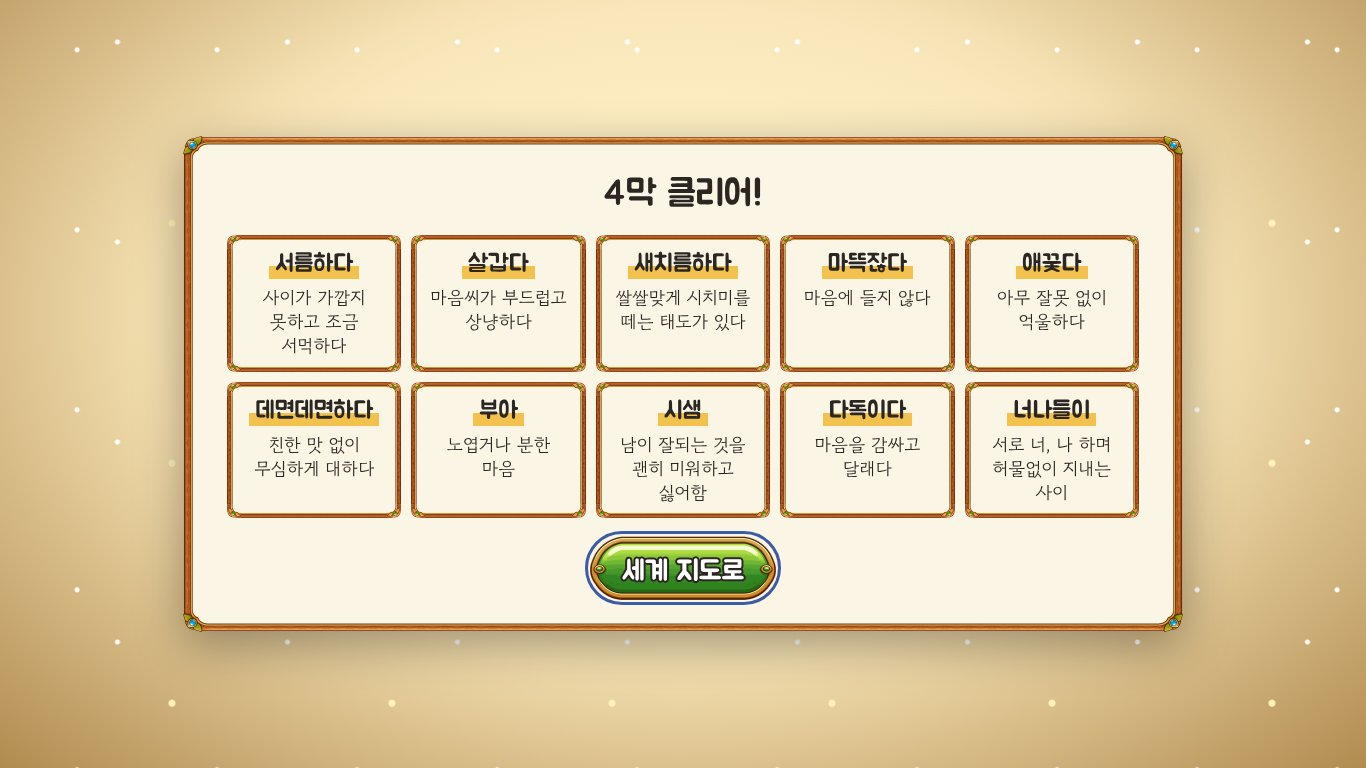
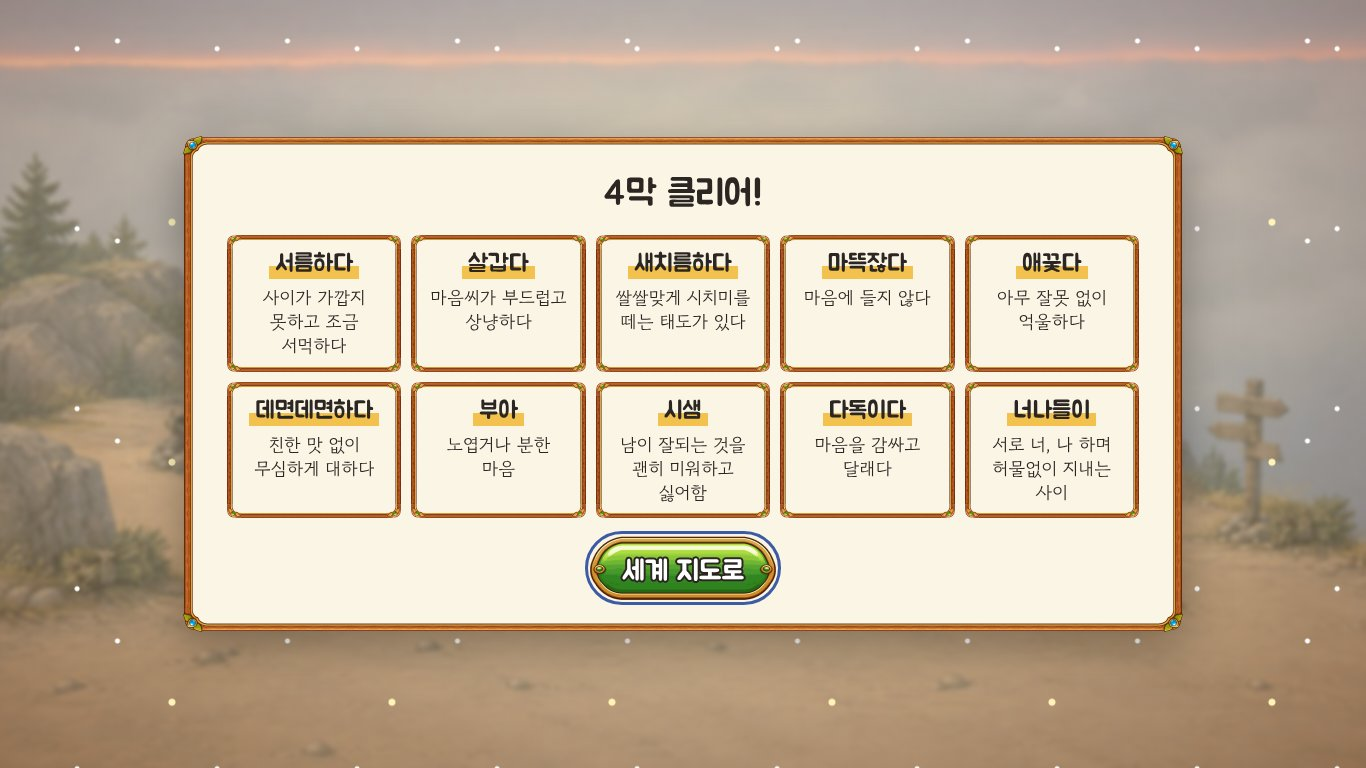
docs: act 4 screenshots with art; credit log
Claude-Session: https://claude.ai/code/session_017WoqJ7PBE5F4GzxWdiYF3d

diff --git a/docs/superpowers/plans/2026-11-04-acts2-5-art.md b/docs/superpowers/plans/2026-11-04-acts2-5-art.md
@@ -345,7 +345,7 @@ Task들은 아래 절차를 막·장 값만 바꿔 쓴다. `PY=/root/.local/shar
 | 3 3막 맵·도트 | 70 | 8 | 60 |
 | 4 3막 일러스트 | 170 | 20 | 200 (여유에서 30: 나래 base, 여울 base, bg_ch3-2 다시 그리기) |
 | 5 4막 맵·도트 | 70 | 7 | 50 |
-| 6 4막 일러스트 | 140 | | |
+| 6 4막 일러스트 | 140 | 14 | 140 (의심 그림자 a2: a1 고쳐 그리기, 보스 20 안) |
 | 7 5막 맵·도트·세계 지도 | 78 | | |
 | 8 5막 일러스트·엔딩 | 120 | | |
 | 여유 | 112 | 1 | 10 (T3R: 3-2 맵 다시 그리기 — 냇물 위아래·둥근 다리·디딤돌) |
